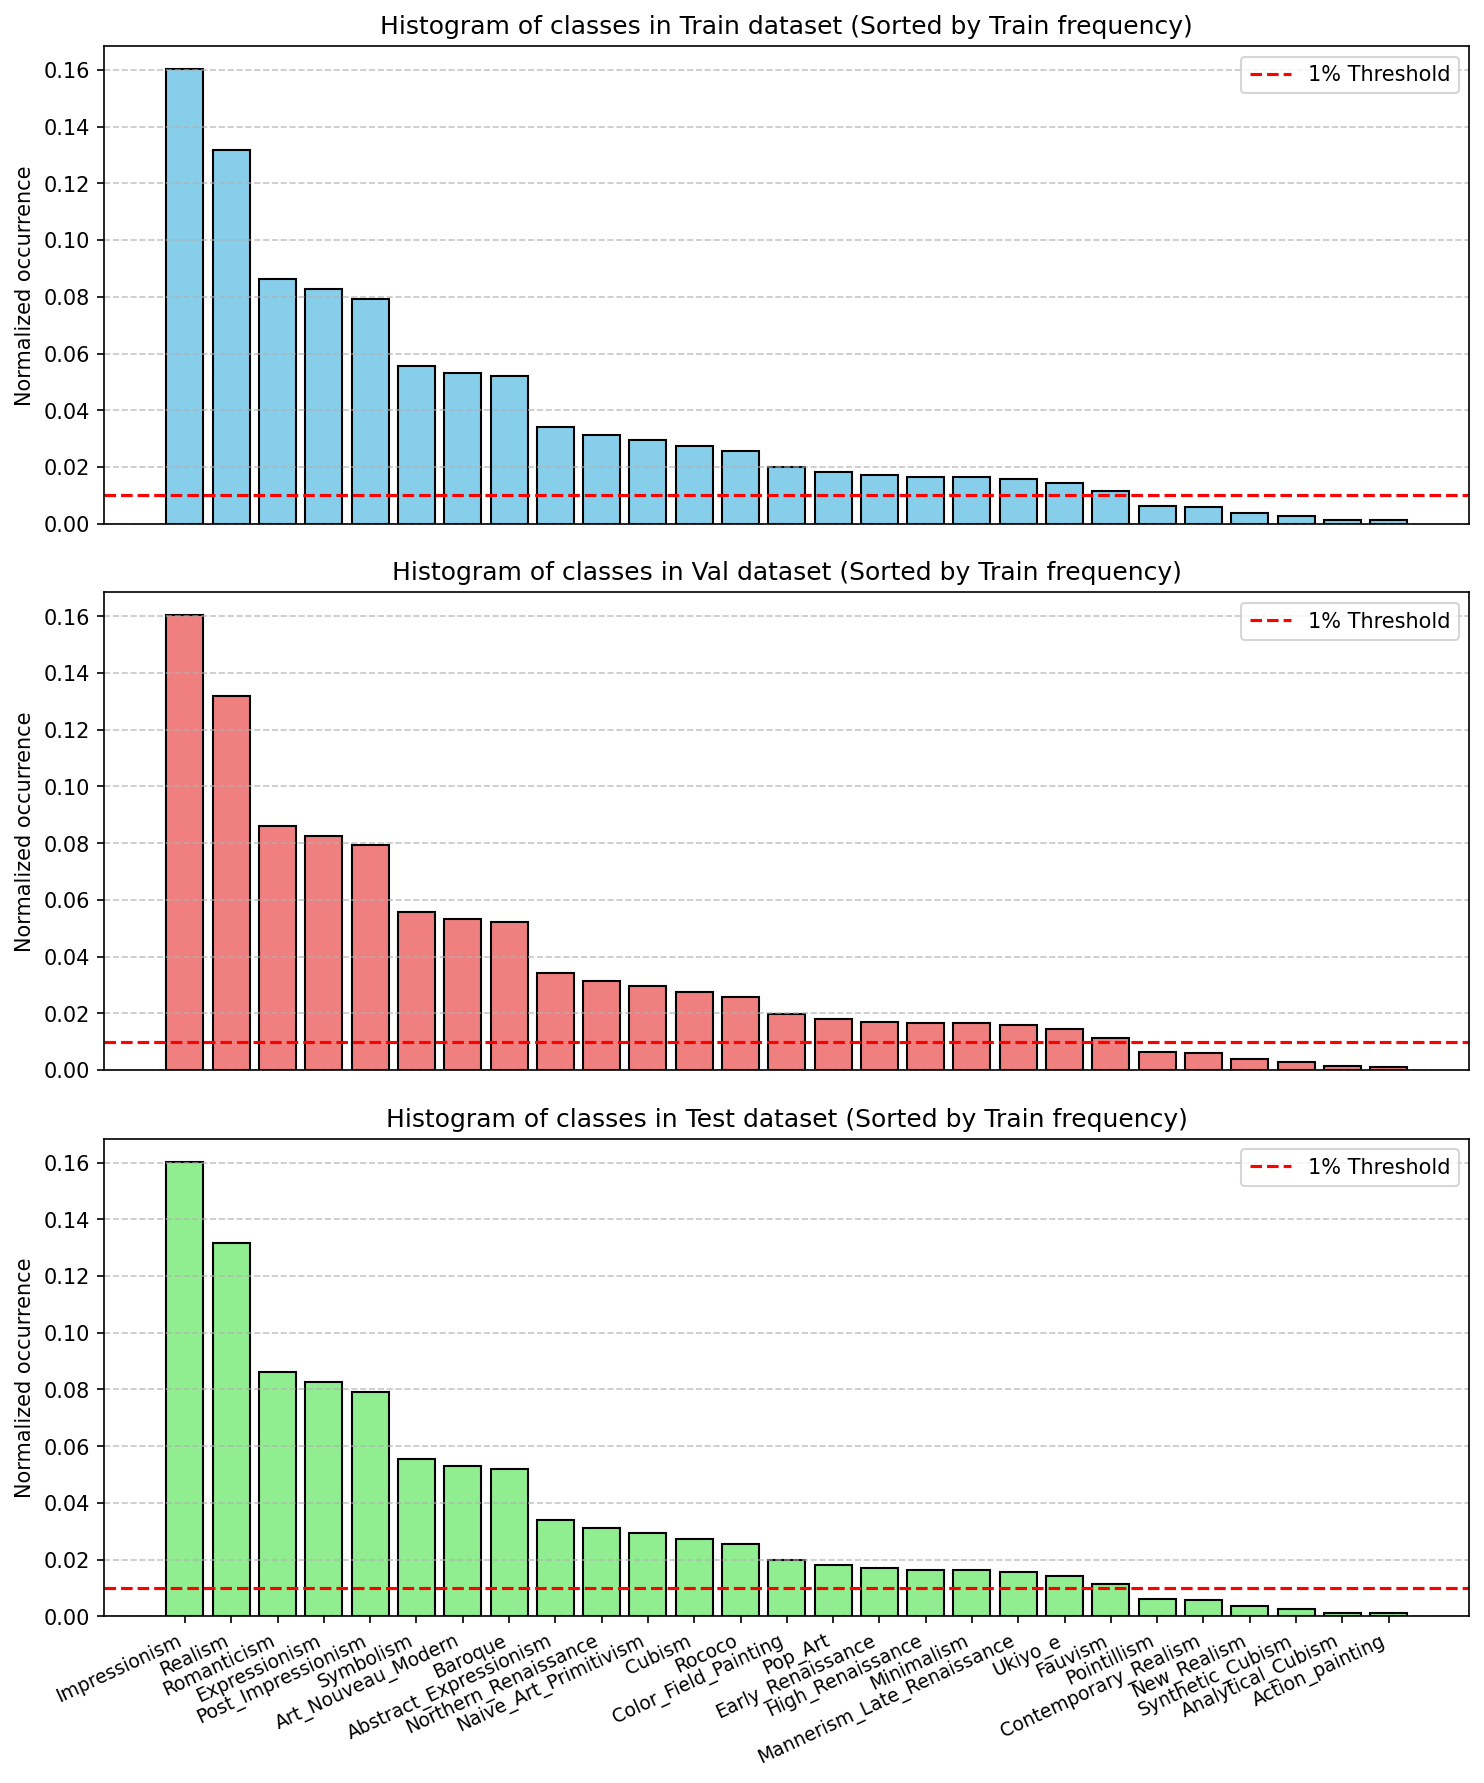
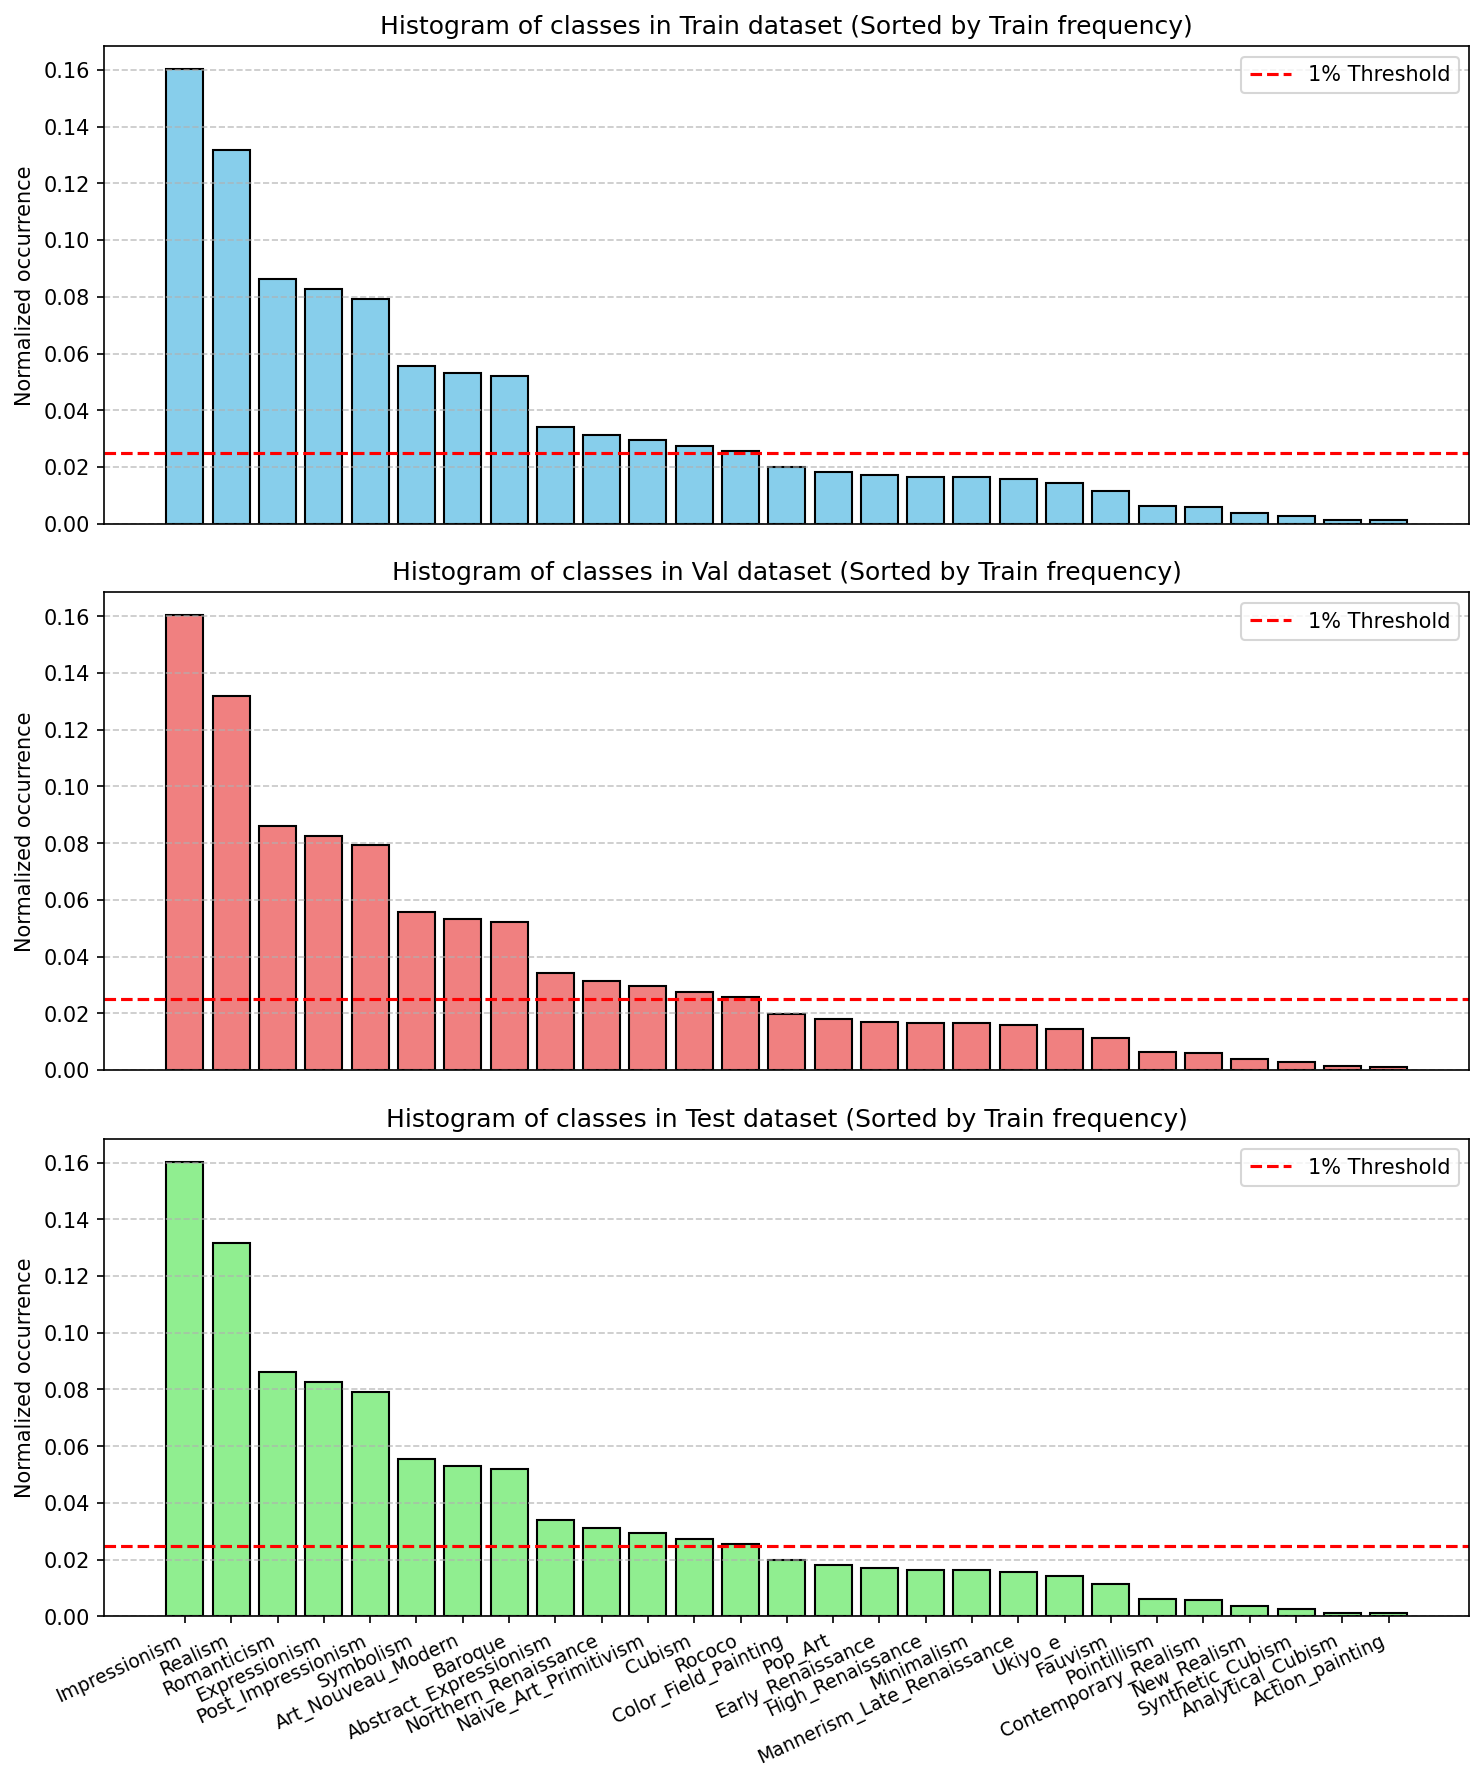
Scores and model training integration
Added full training script and scores for new database for 2 variants:

Full classes
Reduced classes (below 2,5% were merged)

diff --git a/Functions.py b/Functions.py
@@ -1,0 +1,158 @@
+from DataBase_Functions import LabelEncoderDF
+import os
+import joblib
+import matplotlib.pyplot as plt
+import numpy as np
+from sklearn.metrics import accuracy_score, confusion_matrix, ConfusionMatrixDisplay
+import pandas as pd
+from sklearn.svm import LinearSVC
+from sklearn.kernel_approximation import Nystroem
+from sklearn.pipeline import make_pipeline
+
+def Reduce_Classes_by_Threshold(Processed_data, threshold=0.025):
+    """
+    Reduces classes based strictly on y_train statistics.
+    Carries over all x and y splits to the new dictionary.
+    """
+    old_encoder = Processed_data['Label_encoder']
+    
+    # 1. Decode y_train to strings to calculate frequencies
+    y_train_str = pd.Series([old_encoder.int_to_label[i] for i in Processed_data['y_train']])
+    
+    # 2. Identify rare styles based ONLY on training counts
+    style_counts = y_train_str.value_counts(normalize=True)
+    rare_styles = style_counts[style_counts < threshold].index.tolist()
+    
+    print(f"Merging {len(rare_styles)} classes (< {threshold*100}% of Train) into 'Other_Styles'...")
+
+    # 3. Initialize the new Encoder (contiguous mapping)
+    Reduced_Encoder = LabelEncoderDF()
+
+    def process_split(split_ints):
+        """Helper to decode, merge, and re-encode a split."""
+        # Convert integers back to strings using the original mapping
+        s_str = pd.Series([old_encoder.int_to_label[i] for i in split_ints])
+        # Force styles below threshold into the 'Other' bucket
+        s_merged = s_str.apply(lambda x: "Other_Styles" if x in rare_styles else x)
+        # Map to new contiguous integers (0, 1, 2...)
+        return np.array([Reduced_Encoder.encode_label(s) for s in s_merged], dtype=np.int64)
+
+    # 4. Construct the complete dictionary
+    # We must explicitly include the 'x' features for val and test
+    Processed_data_class_reduced = {
+        'x_train': Processed_data['x_train'],
+        'y_train': process_split(Processed_data['y_train']),
+        
+        'x_val':   Processed_data['x_val'],  
+        'y_val':   process_split(Processed_data['y_val']),
+        
+        'x_test':  Processed_data['x_test'],
+        'y_test':  process_split(Processed_data['y_test']),
+        
+        'Label_encoder': Reduced_Encoder
+    }
+
+    print(f"Reduction complete. New class count: {len(Reduced_Encoder.label_to_int)}")
+    
+    return Processed_data_class_reduced
+
+
+
+
+def Train_and_Evaluate_Model(Processed_data,
+                             model_name="svm_rbf_nystroem.joblib", 
+                             model_folder="models", 
+                             plot_save_name="Confusion_Matrix.png", 
+                             suptitle_prefix="WikiArt Classification"):
+    """
+    Trains/Loads a Nystroem-approximated SVM and plots Train/Test confusion matrices.
+    """
+    
+    # 1. Setup paths
+    if not os.path.exists(model_folder):
+        os.makedirs(model_folder)
+    model_path = os.path.join(model_folder, model_name)
+    
+    # 2. Persistence: Load or Train
+    if os.path.exists(model_path):
+        print(f"Loading pre-trained model from {model_path}...")
+        clf = joblib.load(model_path)
+    else:
+        print(f"\nStarting training the model: {model_name}...")
+        
+        # SPIRIT: We use Nystroem to approximate the 'RBF' kernel.
+        # n_components=300 is a good balance for 57k samples.
+        # dual=False is mandatory for n_samples > n_features for speed.
+        
+        #calculate the % of keeping 
+        gamma_val = 1.0 / (Processed_data['x_train'].shape[1] * Processed_data['x_train'].var())
+        print("Gamma val: ", gamma_val)
+        clf = make_pipeline(
+            Nystroem(kernel='rbf', gamma = gamma_val , n_components=600, random_state=42),
+            LinearSVC(C=1, dual=False, max_iter=2000, verbose=True)
+        )
+        
+        # Fit on training data
+        clf.fit(Processed_data['x_train'], Processed_data['y_train'])
+        
+        # Save model
+        joblib.dump(clf, model_path)
+        print(f"Model saved to {model_path}")
+
+    # 3. Predict and Scores
+    y_train_pred = clf.predict(Processed_data['x_train'])
+    y_test_pred  = clf.predict(Processed_data['x_test'])
+    
+    train_acc = accuracy_score(Processed_data['y_train'], y_train_pred)
+    test_acc  = accuracy_score(Processed_data['y_test'], y_test_pred)
+    
+    print(f"\n{suptitle_prefix} Results:")
+    print(f"Train acc: {train_acc:.4f}")
+    print(f"Test acc:  {test_acc:.4f}")
+
+    # 4. Visualization
+    Label_encoder = Processed_data["Label_encoder"]
+    
+    print("\nGenerating Confusion Matrices...")
+    class_names = [Label_encoder.int_to_label[i] for i in range(len(Label_encoder.int_to_label))]
+
+    fig, axes = plt.subplots(1, 2, figsize=(28, 14))
+    
+    datasets = [
+        ("Train", Processed_data['y_train'], y_train_pred, train_acc),
+        ("Test", Processed_data['y_test'], y_test_pred, test_acc)
+    ]
+
+    for i, (name, y_true, y_pred, acc) in enumerate(datasets):
+        cm = confusion_matrix(y_true, y_pred)
+        disp = ConfusionMatrixDisplay(confusion_matrix=cm, display_labels=class_names)
+        disp.plot(ax=axes[i], cmap='viridis', xticks_rotation=90, values_format='d')
+        axes[i].set_title(f"Confusion Matrix: {name} Set\nAccuracy: {acc:.2%}")
+
+    # Steerable suptitle
+    fig.suptitle(f"{suptitle_prefix}\n(Overall Test Accuracy: {test_acc:.2%})", fontsize=22, fontweight='bold')
+    
+    plt.tight_layout(rect=[0, 0.03, 1, 0.95])
+    plt.savefig(plot_save_name, dpi=100, bbox_inches='tight')
+    
+    print(f"Plot saved to: {plot_save_name}")
+    plt.show()
+    
+    return clf
+
+
+
+
+
+
+
+
+
+
+
+
+
+
+
+
+

diff --git a/Main.py b/Main.py
@@ -20,10 +20,10 @@ sys.path.insert(0, DATABASE_FOLDER)
 from DataBase_Functions import Custom_DataSet_Manager, LabelEncoderDF, Prepare_data_from_features
 import Functions
 
-import pandas as pd
 from sklearn.preprocessing import StandardScaler
 from sklearn.svm import SVC
-
+from sklearn.metrics import confusion_matrix, ConfusionMatrixDisplay
+import matplotlib.pyplot as plt
 
 if __name__ == '__main__':
     ###################################################################
@@ -104,44 +104,45 @@ if __name__ == '__main__':
                         'x_val': x_val_final,
                         'y_val': y_val,
                         'x_test': x_test_final,
-                        'y_test': y_test
+                        'y_test': y_test,
+                        'Label_encoder': Label_encoder
                         }
         #Save the file
         with open(PROCESSED_DATA_PATH, 'wb') as f:
             pickle.dump(Processed_data, f, protocol=pickle.HIGHEST_PROTOCOL)
             print("Scaled and PCA-reduced data saved to disk.")
         
+
+
+
+    ###################################################################
+    # ( 2.5 ) Create redced class dataset
+    ###################################################################
+
+    #Create reduced class dataset where we merge all classes below 2,5% count into one shared class
+    Processed_data_class_reduced = Functions.Reduce_Classes_by_Threshold(
+        Processed_data, 
+        threshold=0.025
+    )
     
     ###################################################################
-    # ( 3 ) Training SVM
+    # ( 3 ) Training SVM (full class)
     ###################################################################
     
-    print("\nStarting training the model...")
+    print("\nStarting training the full model...")
     
+    model_red = Functions.Train_and_Evaluate_Model(Processed_data=Processed_data,
+                                                    model_name="svm_nystroem_rbf.joblib",
+                                                    plot_save_name="SVM_full_scores.png",
+                                                    suptitle_prefix="SVM full class"
+                                                )
     
-    #SVM model
-    svc = SVC(C = 1, kernel = 'rbf', degree = 3, gamma = 'scale')
-    
-    # Fit on training data
-    svc.fit(x_train_scaled, y_train)
-    
-    # Predict
-    y_train_pred = svc.predict(x_train_scaled)
-    y_val_pred   = svc.predict(x_val_scaled)
-    y_test_pred  = svc.predict(x_test_scaled)
-    
-    # Scores
-    
-    train_acc = accuracy_score(y_train, y_train_pred)
-    val_acc = accuracy_score(y_val, y_val_pred)
-    test_acc = accuracy_score(y_test, y_test_pred)
-    
-    print("Train acc: ", train_acc)
-    print("Val acc: ", val_acc)
-    print("Test acc: ", test_acc)
-
-
-
+    print("\nStarting training the full model...")
+    model_red = Functions.Train_and_Evaluate_Model(Processed_data= Processed_data_class_reduced,
+                                                    model_name="svm_nystroem_rbf_reduced.joblib",
+                                                    plot_save_name="SVM_reduced_scores.png",
+                                                    suptitle_prefix="SVM class below 2.5% merged"
+                                                )
 
 
 

diff --git a/Data_analysis.py b/Data_analysis.py
@@ -100,7 +100,7 @@ for i, (key, (classes, values)) in enumerate(Ordered_Data_dict.items()):
     plt.tight_layout()
     
     # 1% treshold line
-    plt.axhline(y=0.01, color='red', linestyle='--', linewidth=1.5, label='1% Threshold')
+    plt.axhline(y=0.025, color='red', linestyle='--', linewidth=1.5, label='1% Threshold')
     plt.legend()
     
     #nly show on bottom plot labels
